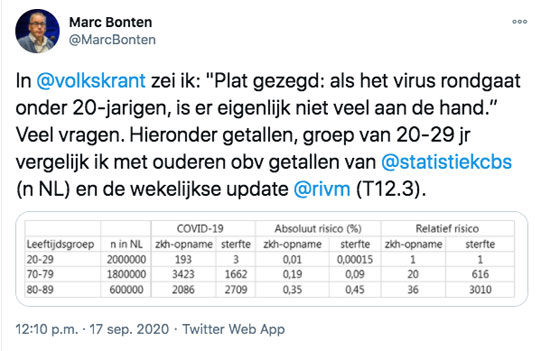
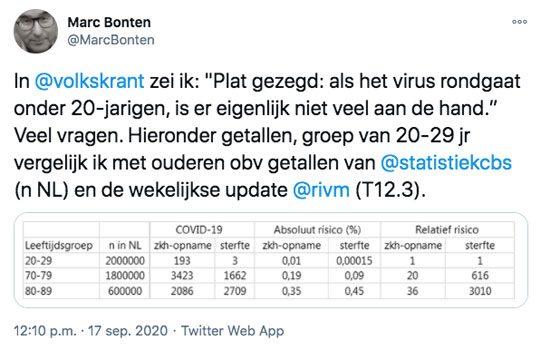
remove old images

diff --git a/src/data/stories.js b/src/data/stories.js
@@ -6,8 +6,8 @@ const stories = [
             en: 'How the Netherlands ended up in its Second Wave'
         },
         subtitle: {
-            nl: 'Drie golven, duimen draaien en een huwelijk...',
-            en: 'Pieces of the puzzle: chaos and lack of leadership'
+            nl: 'The good, the bad and the ugly:<br>2 lockdowns, ⬛⬛⬛⬛⬛⬛⬛⬛⬛⬛, duimen draaien, een huwelijk en de pret-tester...',
+            en: ''
         },
         image: 'assets/img/stories/netherlands/persconferentie-31-maart.jpg',
         hasAgeGroups: true,
@@ -32,26 +32,24 @@ const stories = [
                     nl: `
                         <p>
                             De geruchten uit China over een mysterieuze longziekte
-                            stapelen zich op in de eerste weken van januari. Wuhan 
-                            de stad van de uitbraak besluit haar complete bevolking op 
+                            stapelen zich op in de eerste weken van januari. Wuhan -
+                            de stad van de uitbraak - besluit haar complete bevolking op 
                             22 januari onder quarantaine te plaatsen. Een dag
                             later volgen naastgelegen steden, zodat eind januari
                             meer dan 40 miljoen inwoners in lockdown zitten.
                         </p>
                         <p>
                             Hoewel de dramatische beelden via verschillende kanalen
-                            bij het Westen binnen komen, blijft het RIVM  tot 
+                            bij het Westen binnenkomen, blijft het RIVM  tot 
                             diep in februari zelfverzekerd over de positie van Nederland.
                         </p>
                         <p>
                             <div class="frame">
                                 <img height="306" src="assets/img/stories/netherlands/rivm-februari.jpg">
+                                Zie voor hele tijdlijn in januari/februari dit artikel:
+                                <a href="https://www.ewmagazine.nl/nederland/achtergrond/2020/03/tijdlijn-coronacrisis-in-tweets-rivm-743404/" target="_blank">
+                                Tijdlijn coronacrisis in tweets RIVM</a>
                             </div>
-                        </p>
-                        <p>
-                            Zie voor hele tijdlijn in januari/februari dit artikel:
-                            <a href="https://www.ewmagazine.nl/nederland/achtergrond/2020/03/tijdlijn-coronacrisis-in-tweets-rivm-743404/" target="_blank">
-                            Tijdlijn coronacrisis in tweets RIVM</a>
                         </p>
                         `,
                     en: ``
@@ -77,11 +75,11 @@ const stories = [
                         <p>
                             Het virus duikt in kleine aantallen op verschillende
                             plekken in de wereld op: Iran, Italië en op de 
-                            Diamond Princess, een cruisschip die onder Japanse
+                            Diamond Princess, een cruisschip dat onder Japanse
                             quarantainer komt op 3 februari.
                         </p>
                         <p>
-                            Op 27 februari wordt de eerste besmetting corona in Nederland gemeld. 
+                            Op 27 februari wordt de eerste besmetting van corona in Nederland gemeld. 
                             Een man uit Loon op Zand die een week eerder, voor werk in het Italiaanse 
                             Lombardije is geweest. Twee van zijn gezinsleden testen
                             vervolgens ook positief. Vervolgens een vrouw uit Amsterdam
@@ -183,12 +181,12 @@ const stories = [
                         </p>
                         <p>
                             Maar de enorme groei is niet meer te stoppen. Op 16
-                            maart houdt minister president Rutte een plechtige
+                            maart houdt minister-president Rutte een plechtige
                             toespraak vanuit het torentje, waarin hij uitvoerig
                             uitlegt dat Nederland aan de hand van groepsimmuniteit 
                             dit virus wil gaan aanpakken. Een keuze die in het 
                             buitenland met verbazing wordt ontvangen, maar in het
-                            binnenland is de media lyrisch over de 'presidentiële toespraak'
+                            binnenland is de media vooral lyrisch over de 'presidentiële toespraak'
                         </p>
                         <p>
                             <div class="frame">
@@ -196,9 +194,13 @@ const stories = [
                             </div>
                         </p>
                         <p>
-                            In later opgevraagde WOB bestanden bleek het woord 
+                            Rutte beweerde later in een kamerdebat dat hij
+                            <a href="https://twitter.com/ContainmentNu/status/1268815139383521281" target="_blank">
+                            helemaal geen toespraak over groepsimmuniteit gehouden
+                            had</a> en in later opgevraagde WOB bestanden bleek het woord 
                             'groepsimmuniteit' als synoniem voor de gekozen tactiek
-                            'maximale controle' te zijn weggelakt.
+                            'maximale controle' <a href="https://twitter.com/jaapstronks/status/1334443280445169665" target="_blank">
+                            te zijn weggelakt</a>.
                         </p>
                         `,
                     en: ``
@@ -276,6 +278,15 @@ const stories = [
                             hoe voorkomen we een Tweede Golf?
                         </p>
                         <p>
+                            De kritiek op het RIVM groeit ook langzamerhand. Nieuwsuur
+                            zou in juli een reportage maken, waarin gesteld wordt
+                            dat de richtlijnen van het RIVM voor gebruik van mondkapjes
+                            in de zorg, <a href="https://www.youtube.com/watch?v=WtJlA2aYDXQ&feature=youtu.be" target="_blank">
+                            zorgen voor onveilige werksituaties</a>. In een
+                            latere uitzending wordt geconstateerd dat de richtlijnen
+                            gebaseerd waren op schaarste.
+                        </p>
+                        <p>
                             Nederland koos voor een eigenzinnige tactiek, onder de
                             naam <i>Maximaal Controleren</i> - met op de achtergrond
                             nog steeds het op 16 maart uitgesproken 'groepsimmuniteit'.
@@ -314,16 +325,22 @@ const stories = [
                 content: {
                     nl: `
                         <p>
-                            Nederland voelt zich zelfverzekerd.<br>
+                            De lockdown heeft goed gewerkt, Nederland toonde
+                            zich solidair en met alle heftige beelden en verhalen 
+                            volgde de Nederlander over het algemeen de maatregelen op.
+                        </p>
+                        <p>
                             De kaart is groen en de besmettingslijn bijna op 0.<br>
                             Vrijwel alle openbare restricties worden 
                             in juli opgeheven. Wel blijft het advies: handen wassen, 1.5 meter afstand houden
                             en bij klachten thuisblijven.
                         </p>
                         <p>
+                            Het kabinet voelt zich zelfverzekerd.
                             Corona-minister  Hugo de Jonge belooft dat de testcapaciteit enorm wordt
                             opgeschaald en lijkt met onderstaande tweet te denken 
-                            dat het corona-virus ook vakantie houdt.
+                            dat het corona-virus ook vakantie houdt of grotendeels
+                            verslagen is.
                         </p>
                         <p>
                             <div class="frame">
@@ -354,32 +371,33 @@ const stories = [
                 content: {
                     nl: `
                         <p>
-                            In augustus lijkt de kaart nog steeds heel gunstig
-                            en de grafiek nog plat. Toch heeft Red Team al  
-                            door dat het virus gevaarlijk aan het groeien is.
+                            In augustus lijkt - met een vluchtige blik - de kaart nog steeds heel gunstig
+                            en de grafiek plat. Het Red Team - een verzameling
+                            van bezorgde burgers en experts - merkt wel op dat het virus gevaarlijk 
+                            aan de oppervlakte aan het groeien is sinds alle versoepelingen.
                         </p>
                         <p>
                             Eind juli sturen ze <a href="https://nos.nl/nieuwsuur/artikel/2341651-experts-waarschuwen-kabinet-neem-binnen-drie-dagen-nieuwe-maatregelen.html" target="_blank">
                             open brief</a> aan het kabinet, waarin
-                            ze waarschuwen voor het onvolledige bron en contactonderzoek, 
+                            ze waarschuwen voor het onvolledige bron- en contactonderzoek (BCO), 
                             het niet in de gaten houden van terugkerende reizigers en
-                            duidelijker overheidscommunicatie. Ze adviseren meer 
+                            vragen om duidelijker overheidscommunicatie. Ze adviseren meer 
                             aandacht voor het BCO en mondkapjesplicht in de horeca.
                             Het advies wordt in de wind geslagen, extern OMT-lid 
                             Jan Kluytmans noemt het advies 'paniekvoetbal'.
                         </p>
                         <p>
                             Op Schiphol hoeft niet overal afstand te worden gehouden. 
-                            Er wordt weliswaar een tijdelijke test met testen gehouden bij aankomst,
+                            Er wordt weliswaar een proef met testen bij aankomst gehouden,
                             maar de teststraat is alleen open tijdens kantooruren, het testen
                             is vrijwillig en wordt
                             na enkele weken ook al weer opgeheven. Nederland lijkt niet
-                            van zins om een milimeter in te leveren op haar beeld
-                            van 'hub tot de wereld' om serieus corona aan te pakken.
+                            van zins om een milimeter in te leveren op haar open grenzen
+                            om serieus corona aan te pakken.
                         </p>
                         <p>
                             <div class="frame">
-                                <img width="356" src="assets/img/stories/netherlands/schiphol-zomer.jpg">
+                                <img height="356" src="assets/img/stories/netherlands/schiphol-zomer.jpg">
                                 Bron: PZC
                             </div>
                         </p>
@@ -407,9 +425,10 @@ const stories = [
           
                         <p>
                            Amper een maand nadat GGD-directeur Sjaak de Gouw
-                           deel van het BCO-personeel naar huis heeft gestuurd,
+                           een deel van het BCO-personeel naar huis heeft gestuurd,
                            omdat ze in juni 'duimen zaten te draaien', schiet Amsterdam
-                           al door de rode grens (de waarde waarop Duitsland een
+                           al door de rode grens van 50 besmettingen per 100.000 inwoners
+                           per 7 dagen (de waarde waarop Duitsland een
                            regio in lockdown zou doen) en meldt de GGD Amsterdam dat het 
                            contactonderzoek  tijdelijk moet beperken, vanwege
                            teveel gemelde cases.
@@ -423,11 +442,11 @@ const stories = [
                         <p>
                             Het Red Team trekt begin augustus weer aan de bel, met
                             nu een officiele brandbrief. 
-                            Zie <a href="https://www.volkskrant.nl/nieuws-achtergrond/experts-in-brandbrief-onduidelijk-coronabeleid-kabinet-maakt-dat-meer-mensen-de-regels-negeren~b2bdaee3/" target="_blank">https://www.volkskrant.nl/nieuws-achtergrond/experts-i...</a>
                         </p>
                         <p>
                             <div class="frame">
                                 <img height="220" src="assets/img/stories/netherlands/brandbrief-red-team.png">
+                                Bron <a href="https://www.volkskrant.nl/nieuws-achtergrond/experts-in-brandbrief-onduidelijk-coronabeleid-kabinet-maakt-dat-meer-mensen-de-regels-negeren~b2bdaee3/" target="_blank">Volskrant</a>
                             </div>
                         </p>
                     `,
@@ -452,13 +471,13 @@ const stories = [
                 content: {
                     nl: `
                         <p>
-                            Minister van justitie Grapperhaus die in de eerdere (lockdown)fase
-                            de harde hand van het beleid vertegenwoordigde wordt
+                            Minister van justitie Grapperhaus - die in de eerdere (lockdown)fase
+                            de harde hand van het beleid vertegenwoordigde - wordt
                             tijdens zijn bruiloft in augustus vastgelegd, waarbij 
                             hij meermaals zijn eigen coronaregels overtreedt.
                         </p>
                         <p>
-                            In tegenstelling tot bijv. Engeland besluit de tweede kamer
+                            In tegenstelling tot bijv. Engeland besluit de Tweede Kamer
                             Grapperhaus aan te laten blijven. Nederland zal hier 
                             nog maandenlang mee worstelen, doordat dit incident
                             het handhavingsbeleid telkens boven het hoofd blijft 
@@ -522,7 +541,9 @@ const stories = [
                         </p>
                         <p>
                             <div class="frame">
-                                <img height="351" src="assets/img/stories/netherlands/marc-bonten-shielding.jpg">
+                                <img height="350" src="assets/img/stories/netherlands/marc-bonten-shielding.jpg">
+                                Bron <a href="https://twitter.com/MarcBonten/status/1306535978652270593" target="_blank">
+                                @MarcBonten</a>
                             </div>
                         </p>
                     `,
@@ -547,7 +568,7 @@ const stories = [
                 content: {
                     nl: `
                         <p>
-                            Begin september brengt Follow the Money een van de oorzaken
+                            Begin september brengt Follow the Money één van de oorzaken
                             van het gefaalde testbeleid aan het licht: eigenbelangen
                             bleken een bepalende rol te spelen in het toekennen
                             van de rechten om te mogen testen. Een naam die telkens
@@ -569,8 +590,9 @@ const stories = [
                             pas 4 dagen later of 100 km verder terecht voor een test.
                             Verantwoordelijke burgers die zich met lichte klachten
                             laten testen, krijgen vervolgens de schuld in de schoenen
-                            geschoven, door de bewering dat het testen spaak loop
-                            als gevolg van 'pret-testers' (uitspraak van 
+                            geschoven, door de bewering dat het testen spaak loopt
+                            als gevolg van <a href="https://www.trouw.nl/binnenland/geen-klachten-toch-testen-een-grote-groep-prettesters-veroorzaakt-tekorten-bij-de-ggd~b83fe887/" target="_blank">
+                            'pret-testers'</a> (uitspraak van 
                             GGD-woordvoerder Sonja Kloppenburg).
                         </p>            
                         `,
@@ -673,7 +695,7 @@ const stories = [
                 }
             }, {
                 title: {
-                    nl: "Een derde golf en de tweede lockdown",
+                    nl: "Kerst in lockdown",
                     en: ""
                 },
                 date: '2020-12-14',

diff --git a/src/components/story/story-head.vue b/src/components/story/story-head.vue
@@ -72,8 +72,10 @@
         <div class="story-head__left">
             <div class="story__navigation">
                 <b>{{getTranslatedItem(story.title)}}</b>
-                <span v-if="currentChapter">
-                        &nbsp;{{limitLength(getTranslatedItem(currentChapter.title))}}
+                <span
+                    class="story__navigation-chapter"
+                    v-if="currentChapter">
+                        &nbsp;{{getTranslatedItem(currentChapter.title)}}
                     </span>
             </div>
             <div class="story__map">
@@ -120,7 +122,6 @@
 
     .story-head {
         height: 300px;
-        border-bottom: 1px solid #ddd;
         box-shadow: 0 4px 12px rgba(0,0,0,0.2);
         position: relative;
         z-index: 1;
@@ -130,15 +131,16 @@
         .story-head__left {
             height: 100%;
             width: 50%;
-            border-right: 1px solid #ddd;
+            border-right: 1px solid #fff;
 
             .story__navigation {
                 height: 30px;
-                border-bottom: 1px solid $map-color-dark;
+                border-bottom: 1px solid #fff;
                 padding: 4px 8px;
                 display: flex;
                 align-items: center;
                 white-space: nowrap;
+                overflow: hidden;
 
                 span {
                     margin-left: 4px;
@@ -213,7 +215,7 @@
             .story__time-slider {
                 height: 52px;
                 padding: 10px 16px;
-                border-top: 1px solid #ddd;
+                border-top: 1px solid #fff;
                 width: 100%;
                 position: relative;
 
@@ -231,6 +233,10 @@
 
                 .story__navigation {
                     border-bottom: 0;
+
+                    .story__navigation-chapter {
+                        display: none;
+                    }
                 }
             }
 

diff --git a/src/components/story/story-intro.vue b/src/components/story/story-intro.vue
@@ -22,8 +22,8 @@
 
 <template>
     <div class="story-intro">
-        <h3>{{getTranslatedItem(story.title)}}</h3>
-        <h4>{{getTranslatedItem(story.subtitle)}}</h4>
+        <h3 v-html="getTranslatedItem(story.title)"/>
+        <h4 v-html="getTranslatedItem(story.subtitle)"/>
         <div
             :style="{'background-image': 'url(' + story.image + ')'}"
             class="story-intro__image"></div>
@@ -38,19 +38,20 @@
         margin-bottom: 150px;
 
         h3 {
-            font-family: $serif;
-            font-size: 36px;
-            line-height: 1.15;
-            margin-bottom: 6px;
+            line-height: 0.9;
+            font-size: 65px;
+            text-transform: uppercase;
+            font-weight: 900;
+            margin-bottom: 18px;
         }
 
         h4 {
-            font-family: $serif;
             font-size: 24px;
             line-height: 1.15;
             margin-top: 0;
-            margin-bottom: 12px;
-            font-weight: 400;
+            margin-bottom: 96px;
+            text-transform: uppercase;
+            font-weight: 100;
         }
 
         .story-intro__image {
@@ -58,6 +59,23 @@
             background-position: 50% 50%;
             background-size: cover;
             background-repeat: no-repeat;
+        }
+
+        @include mobile() {
+
+            h3 {
+                font-size: 36px;
+                margin-bottom: 8px;
+            }
+
+            h4 {
+                font-size: 16px;
+                margin-bottom: 24px;
+            }
+
+            .story-intro__image {
+                height: 260px;
+            }
         }
     }
 </style>
